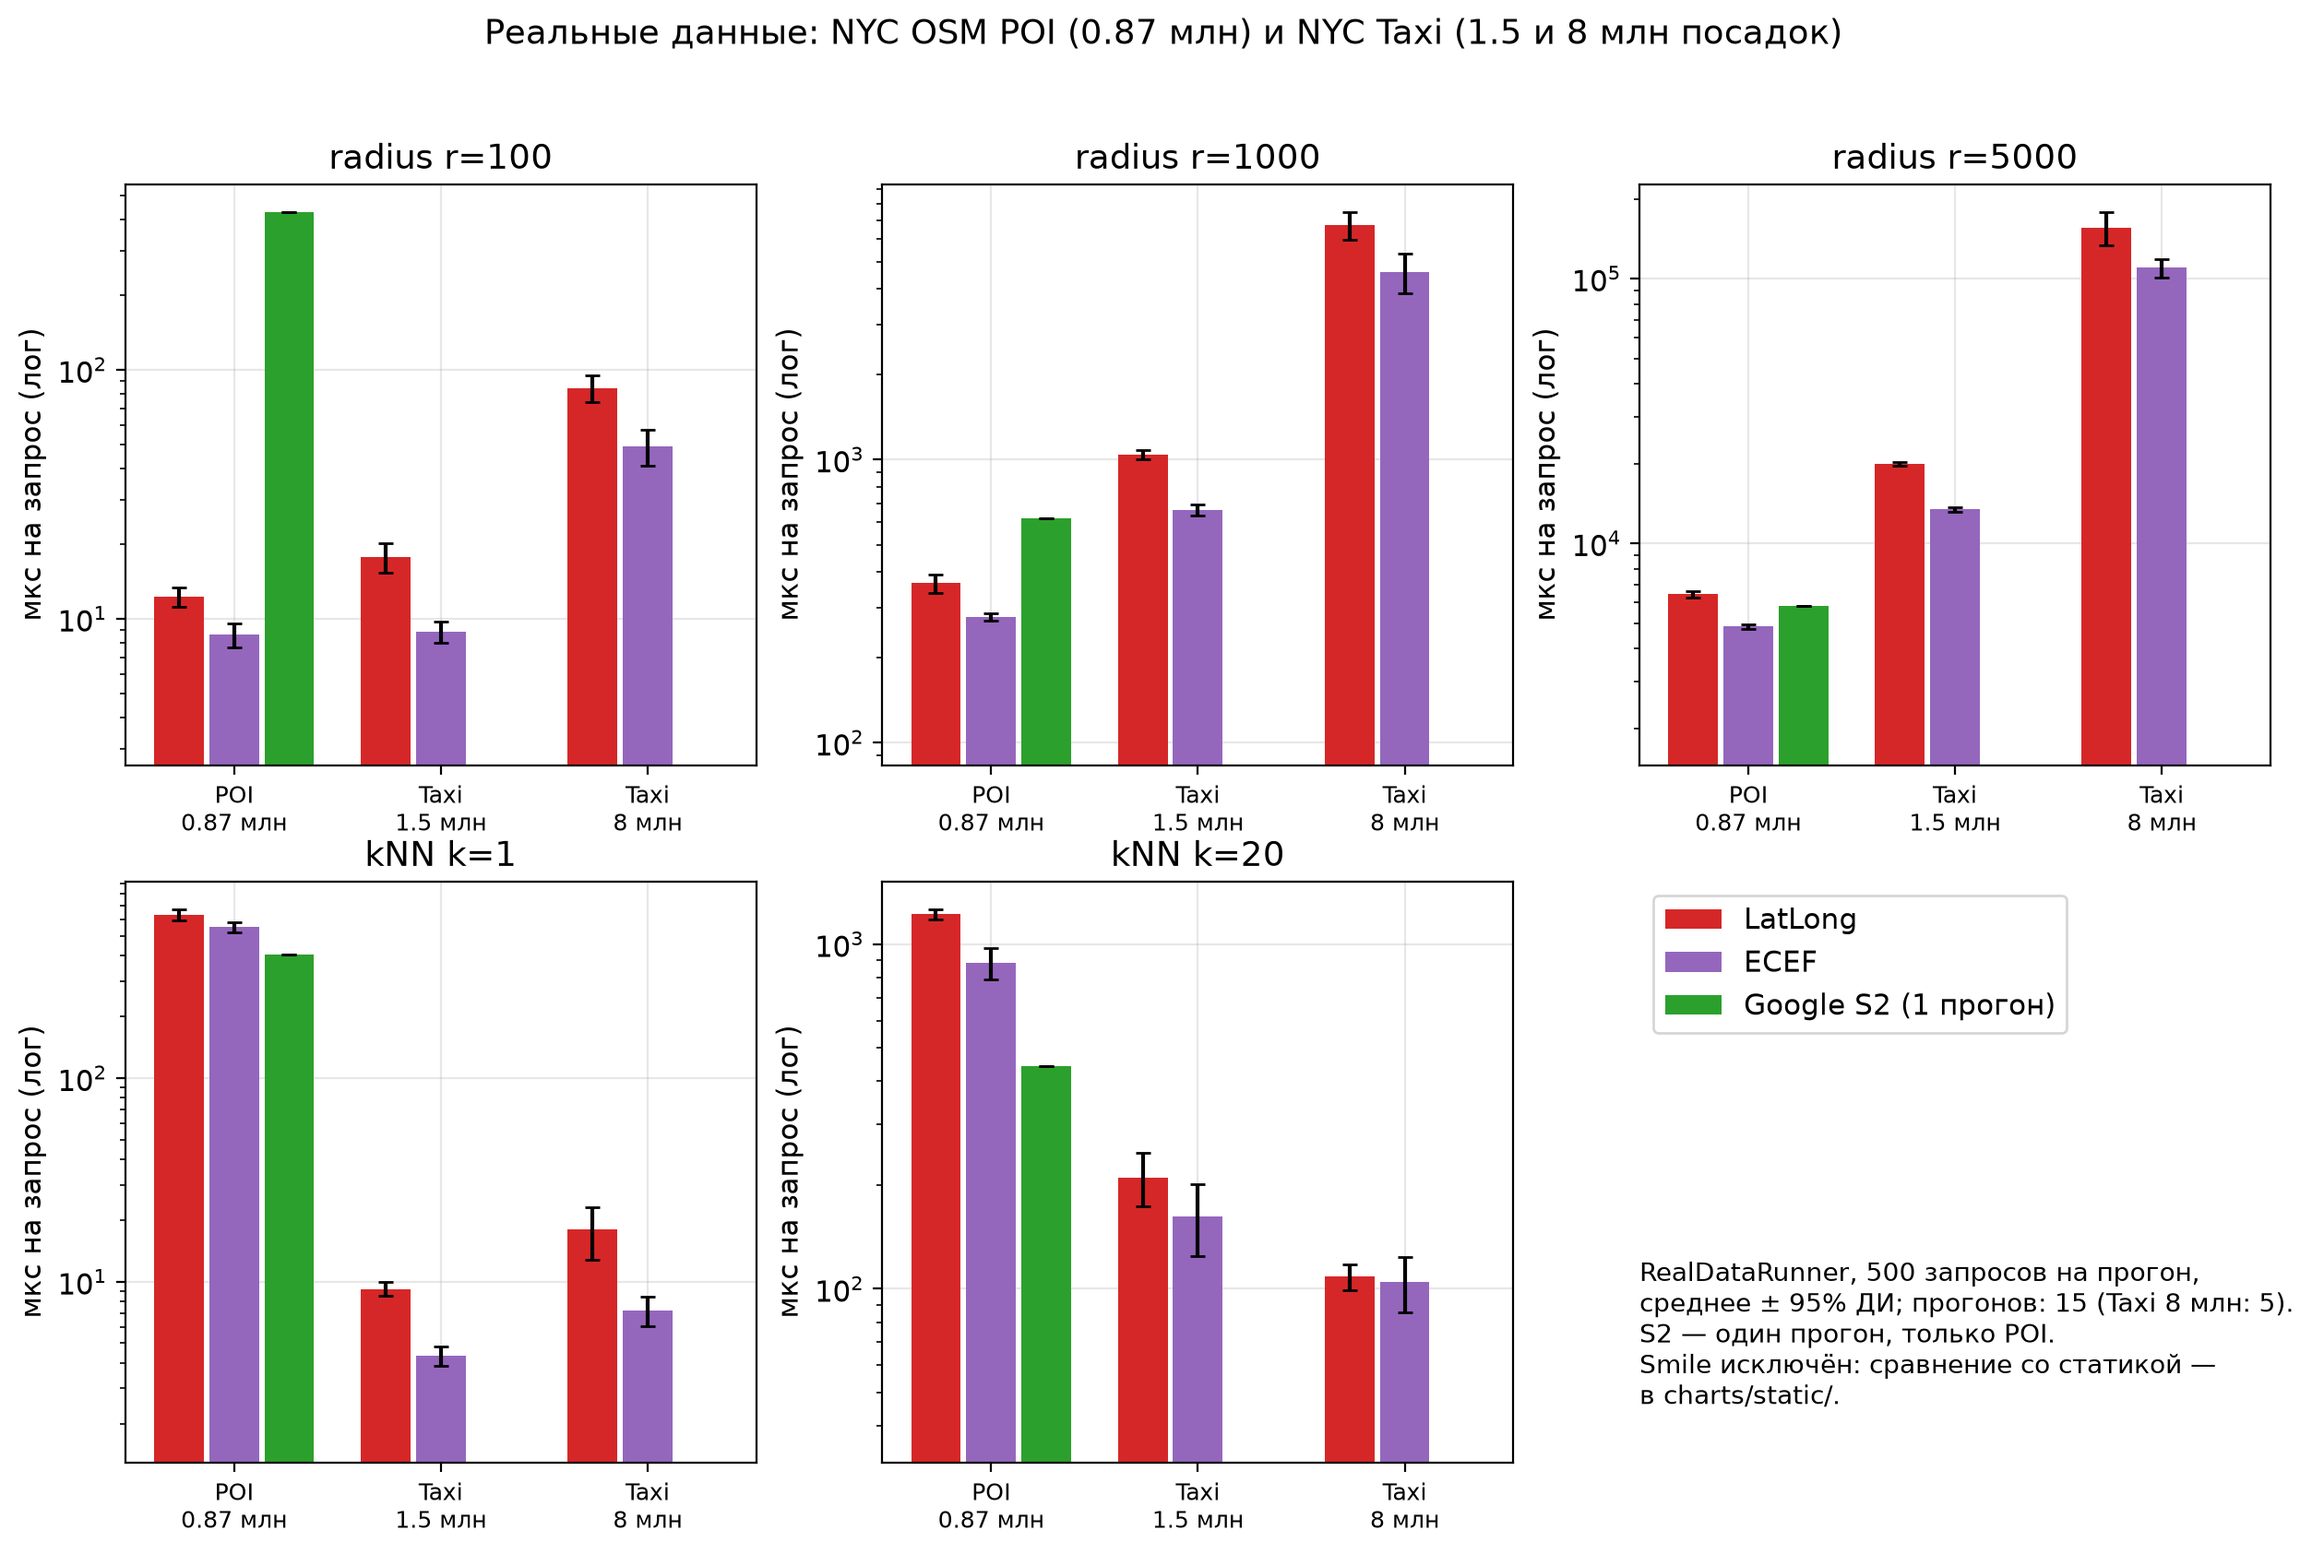
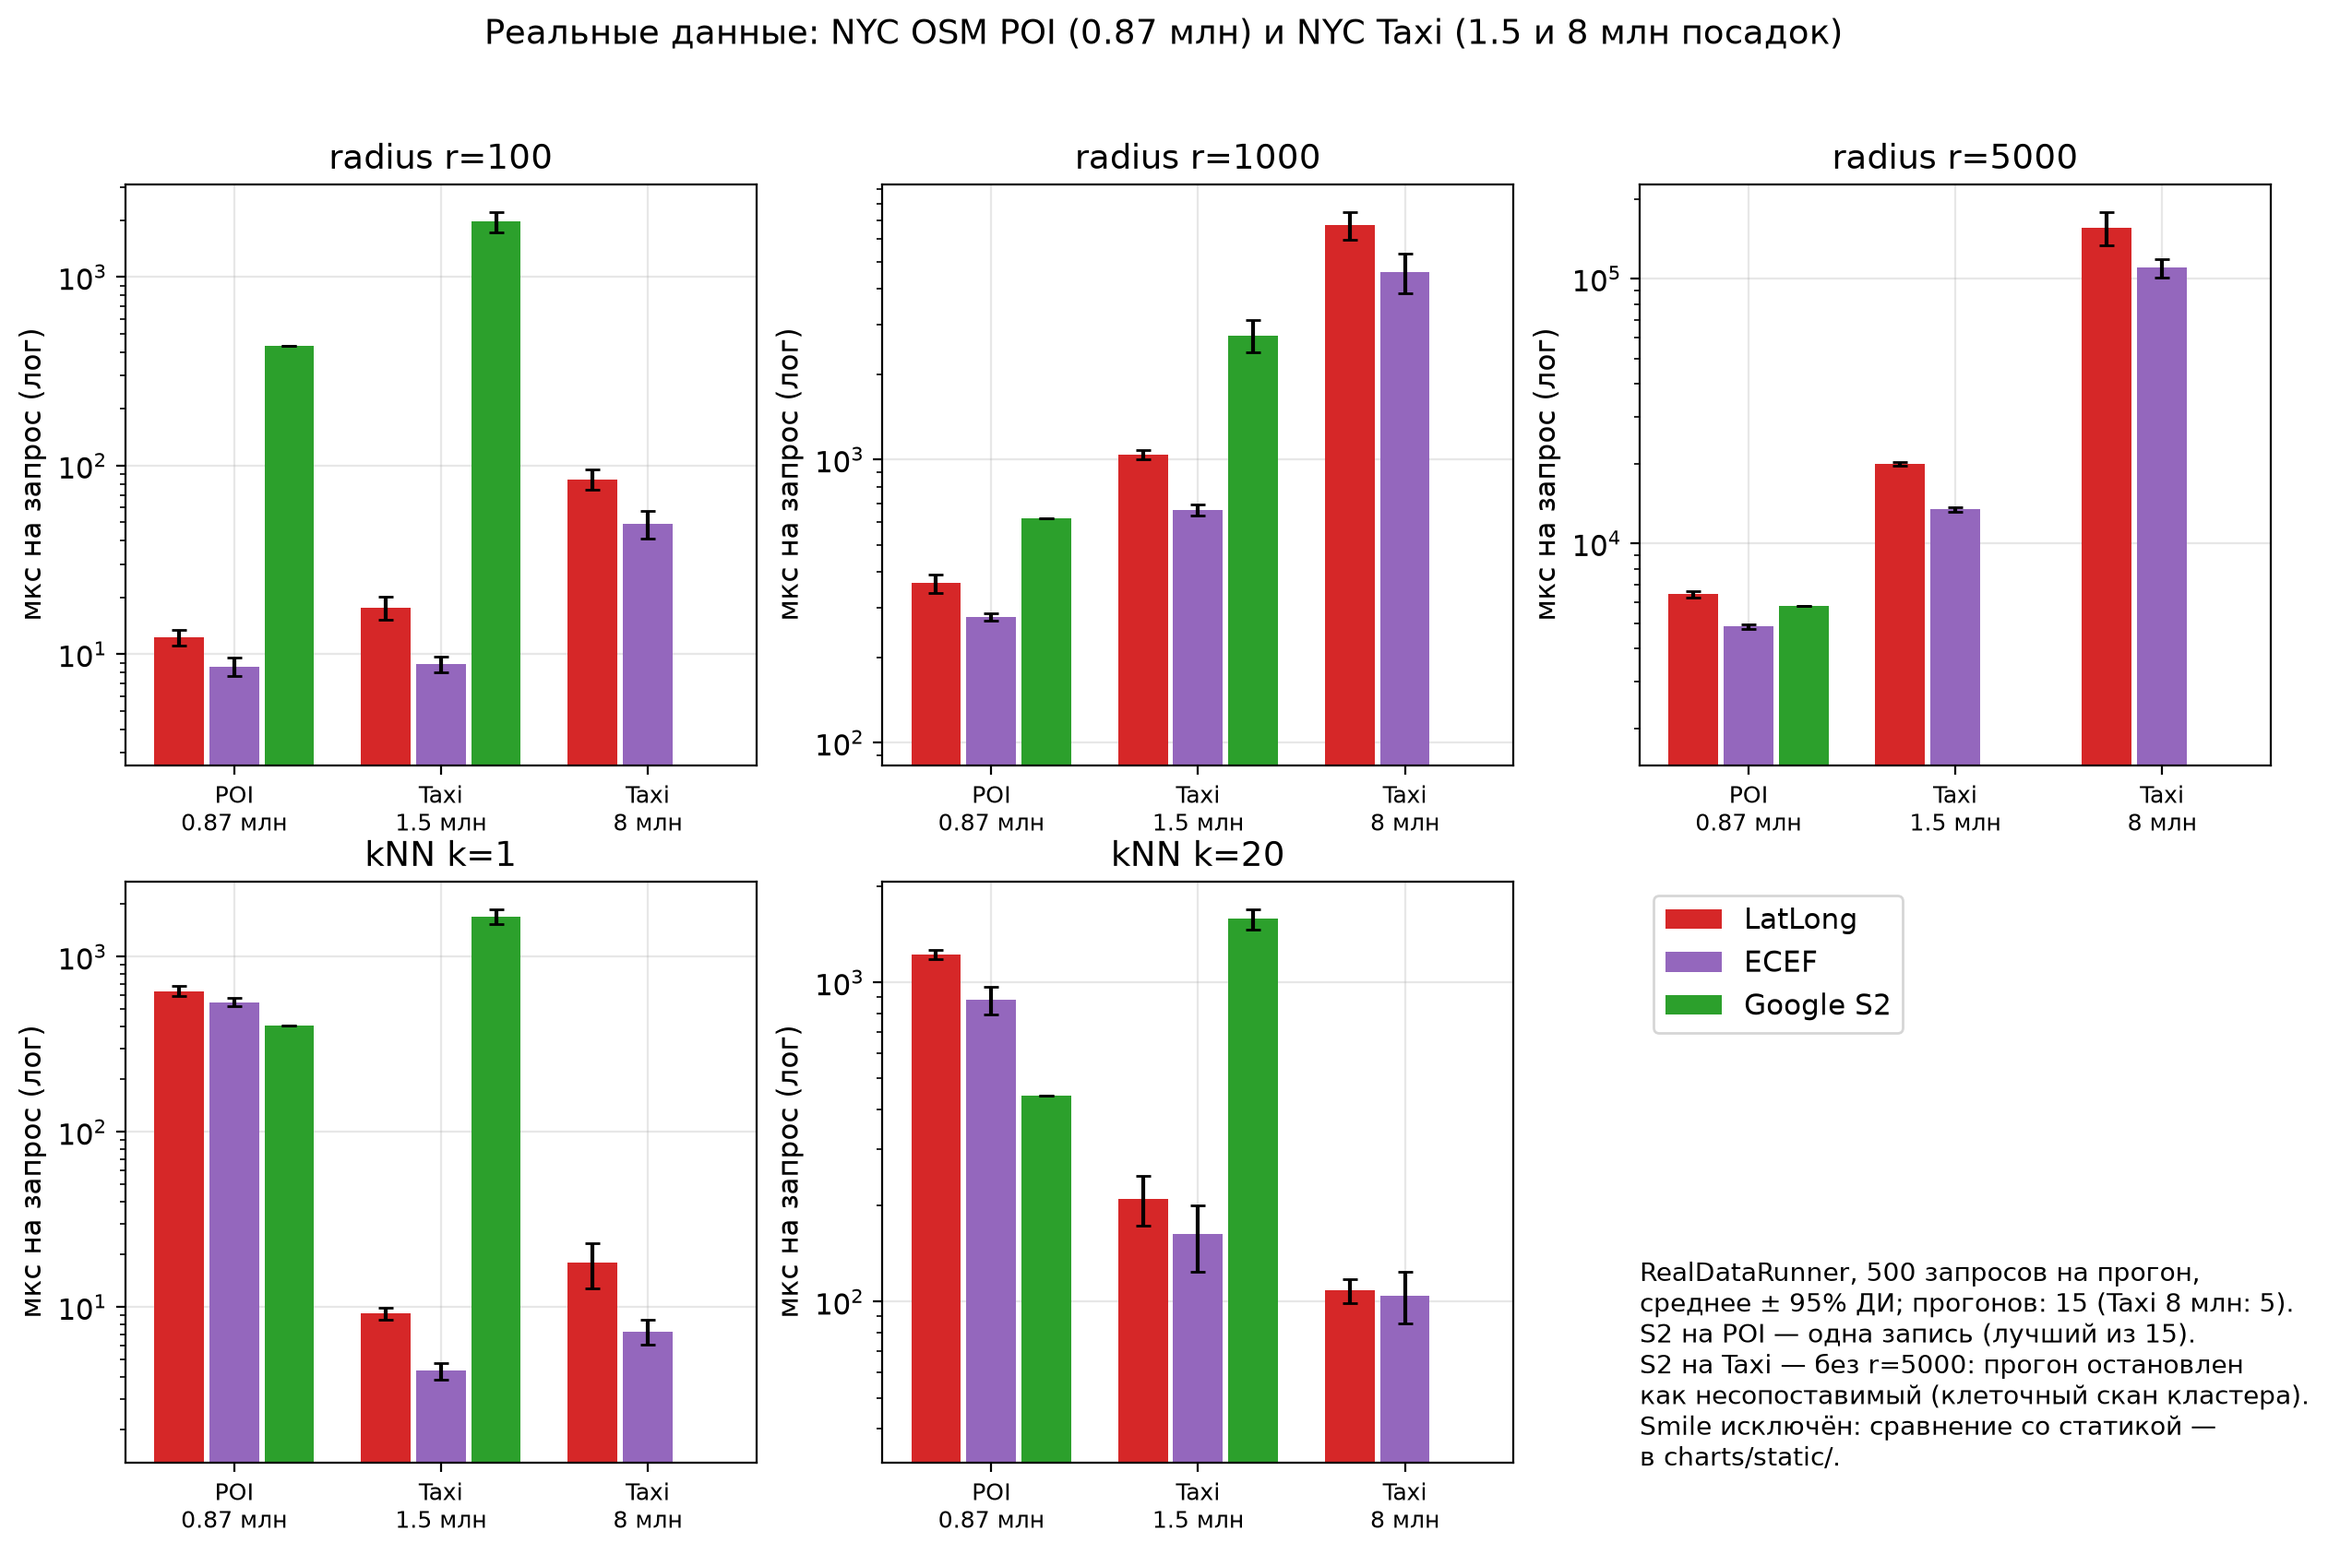
feat: measure s2 knn on taxi

diff --git a/lab-1-java-geo-kdtree/tools/make_ecef_charts.py b/lab-1-java-geo-kdtree/tools/make_ecef_charts.py
@@ -316,7 +316,7 @@ def chart_realdata():
         plt.close(fig)
 
 
-REALDATA_FILES = ("realdata-raw.csv", "realdata-raw-taxi-8m.csv")
+REALDATA_FILES = ("realdata-raw.csv", "realdata-raw-taxi-8m.csv", "realdata-raw-taxi-s2.csv")
 REALDATA_QUERIES = ("radius r=100", "radius r=1000", "radius r=5000", "kNN k=1", "kNN k=20")
 REALDATA_DATASETS = [
     ("poi", "POI\n0.87 млн"),
@@ -326,7 +326,7 @@ REALDATA_DATASETS = [
 REALDATA_IMPLS = [
     ("v6", "LatLong", "#d62728"),
     ("v7", "ECEF", "#9467bd"),
-    ("s2", "Google S2 (1 прогон)", "#2ca02c"),
+    ("s2", "Google S2", "#2ca02c"),
 ]
 
 
@@ -415,7 +415,9 @@ def chart_realdata_2x2():
     legend_ax.text(0, 0.35,
                    "RealDataRunner, 500 запросов на прогон,\n"
                    "среднее ± 95% ДИ; прогонов: 15 (Taxi 8 млн: 5).\n"
-                   "S2 — один прогон, только POI.\n"
+                   "S2 на POI — одна запись (лучший из 15).\n"
+                   "S2 на Taxi — без r=5000: прогон остановлен\n"
+                   "как несопоставимый (клеточный скан кластера).\n"
                    "Smile исключён: сравнение со статикой —\n"
                    "в charts/static/.",
                    fontsize=10, va="top")
